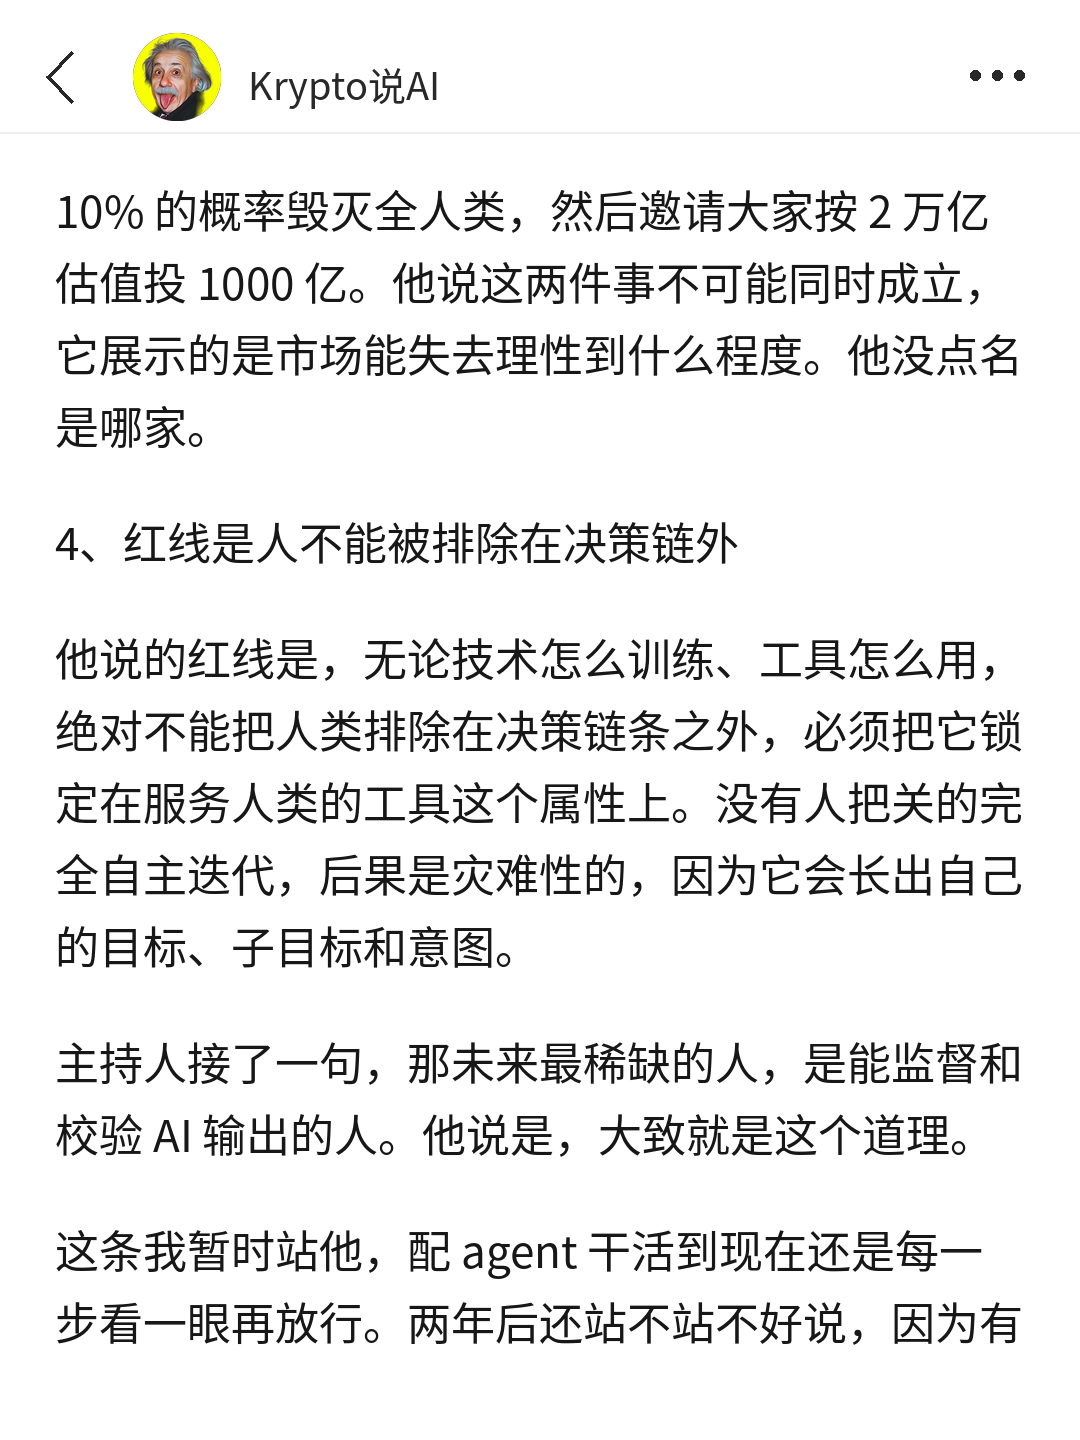
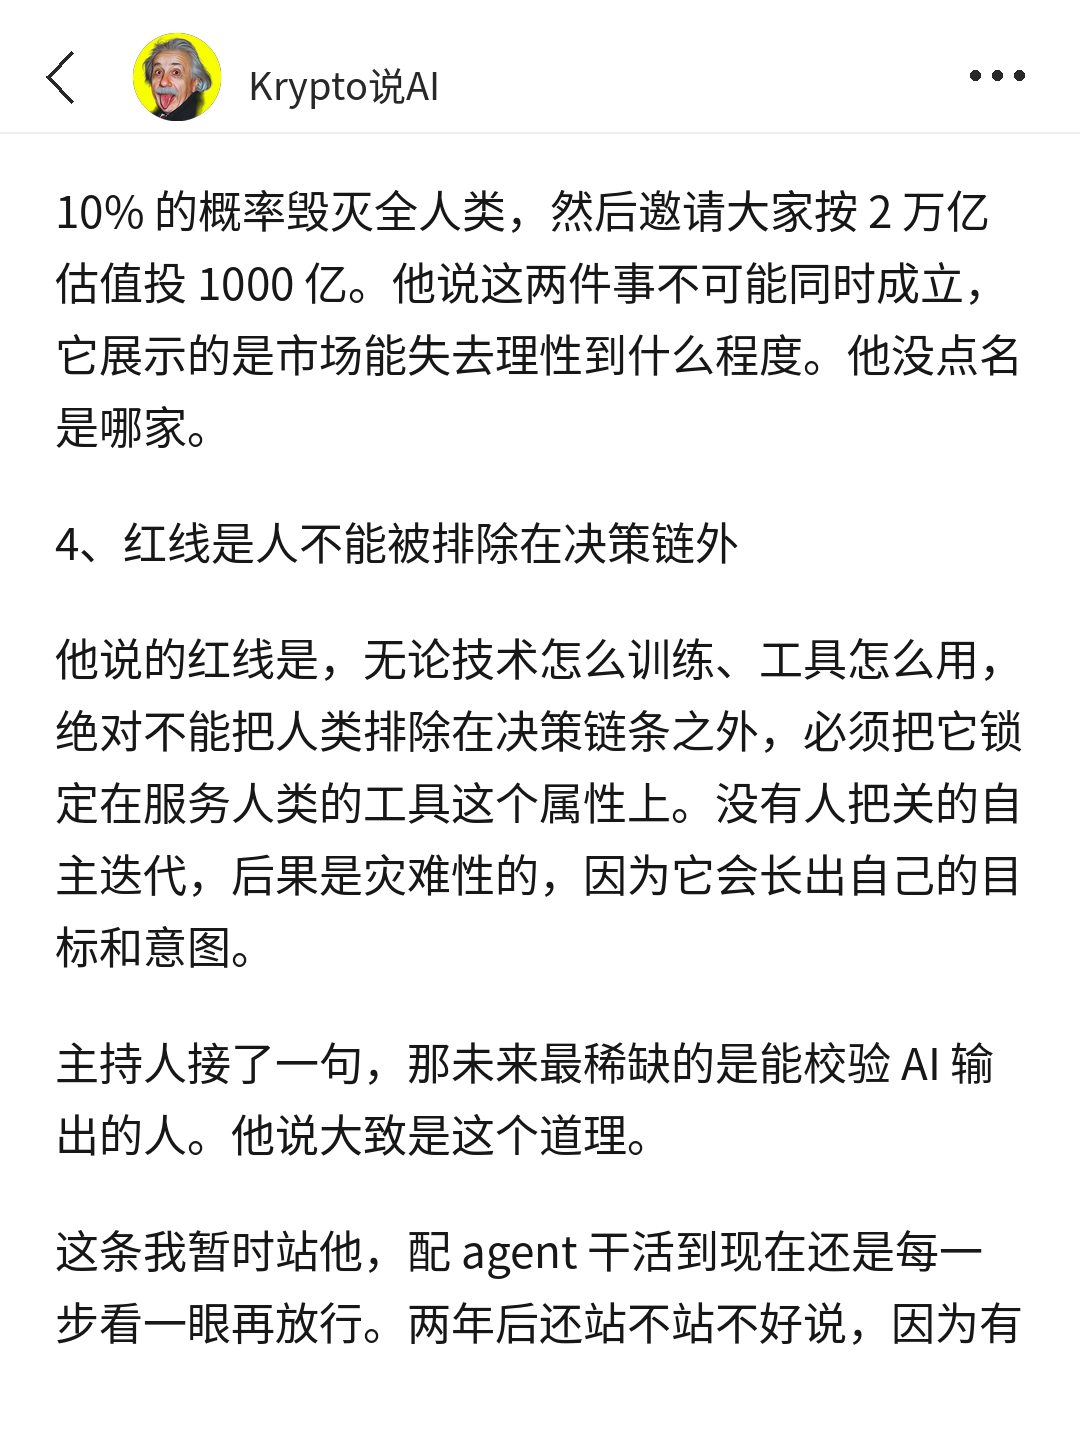
李录稿：第 4 节压两句，8 页
Claude-Session: https://claude.ai/code/session_015PCFAaTRLY2GD1Se7DV5ug

Changed region(s): [[0.0611, 0.5312, 0.9472, 0.6875], [0.0306, 0.7188, 0.9472, 0.8125]]

diff --git a/发布/2026-10-08_lilu-ai-tool-not-species/meme版/编辑用/draft.md b/发布/2026-10-08_lilu-ai-tool-not-species/meme版/编辑用/draft.md
@@ -46,9 +46,9 @@ account: Krypto说AI
 
 4、红线是人不能被排除在决策链外
 
-他说的红线是，无论技术怎么训练、工具怎么用，绝对不能把人类排除在决策链条之外，必须把它锁定在服务人类的工具这个属性上。没有人把关的完全自主迭代，后果是灾难性的，因为它会长出自己的目标、子目标和意图。
+他说的红线是，无论技术怎么训练、工具怎么用，绝对不能把人类排除在决策链条之外，必须把它锁定在服务人类的工具这个属性上。没有人把关的自主迭代，后果是灾难性的，因为它会长出自己的目标和意图。
 
-主持人接了一句，那未来最稀缺的人，是能监督和校验 AI 输出的人。他说是，大致就是这个道理。
+主持人接了一句，那未来最稀缺的是能校验 AI 输出的人。他说大致是这个道理。
 
 这条我暂时站他，配 agent 干活到现在还是每一步看一眼再放行。两年后还站不站不好说，因为有些活人在回路里审一遍，比自己干还慢，这类活的比例以后只会越来越高。
 
